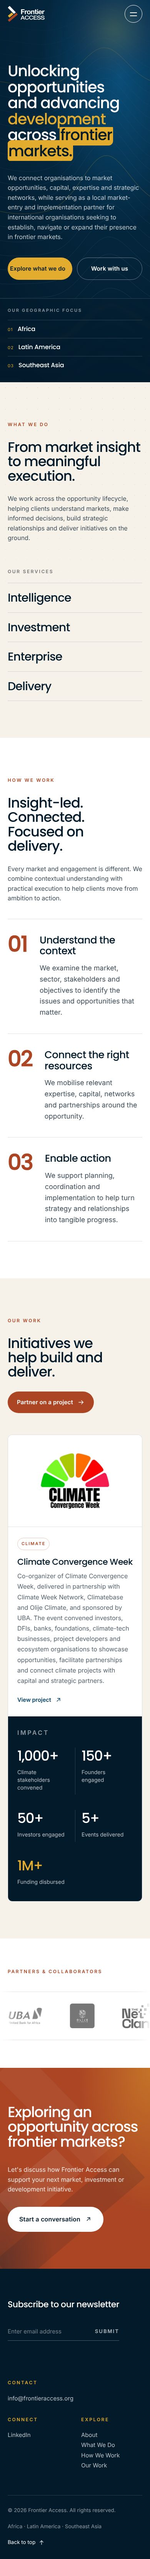
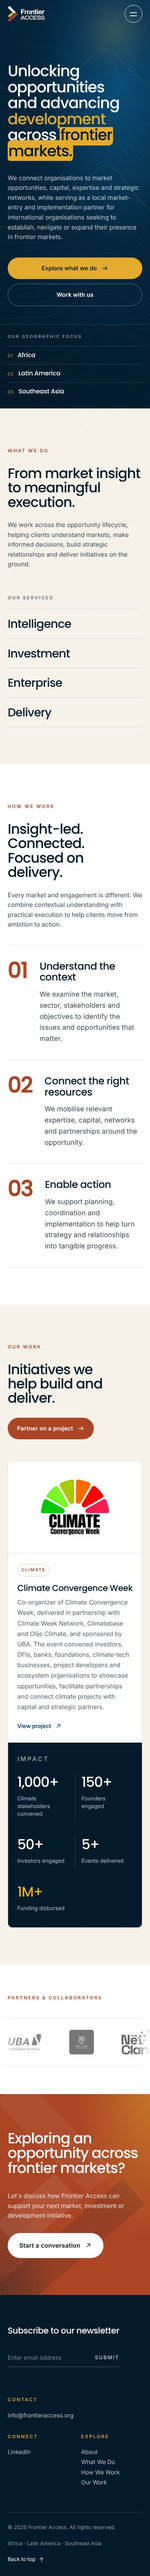
Site-wide audit fixes
- Phones: stack the hero buttons full width (text was cut off at 320-390px)
  and tighten the footer gap.
- Phone menu: Let's Talk now goes to Contact like the header button; remove
  the leftover "Lekki, Lagos" line; use inert instead of aria-hidden so the
  closed menu is skipped by keyboard and screen readers; menu button gets
  type="button".
- Content stays visible when JavaScript is off or not yet run: hiding for
  reveal animations only applies once the page script is running, and the
  Impact figures are written into the HTML (they count up from 0 only when
  animated).
- Partners label is now a heading (h2) for screen readers.
- Small grey labels darkened slightly for readable contrast on off-white.
- Link previews: absolute og:image plus og:title/description/url and a
  canonical URL for www.frontieraccess.org.
- Remove styles left over from removed sections; README points to the
  live domain.

Claude-Session: https://claude.ai/code/session_013iMuxdDqZ6bm7NfrpEJfTy

diff --git a/styles.css b/styles.css
@@ -72,18 +72,14 @@ button { font: inherit; cursor: pointer; }
   font-family: var(--f-body); font-size: 12px; font-weight: 600;
   letter-spacing: .22em; text-transform: uppercase; color: var(--rust);
 }
-.eyebrow-light { color: var(--gold); }
-.eyebrow-dot { width: 7px; height: 7px; border-radius: 50%; background: var(--gold); box-shadow: 0 0 0 0 rgba(227,172,46,.6); animation: pulse 2.4s infinite; }
-@keyframes pulse { 0% { box-shadow: 0 0 0 0 rgba(227,172,46,.55); } 70% { box-shadow: 0 0 0 12px rgba(227,172,46,0); } 100% { box-shadow: 0 0 0 0 rgba(227,172,46,0); } }
 
 .h2 {
   font-family: var(--f-head); font-weight: 500;
   font-size: clamp(36px, 5.2vw, 76px); line-height: 1.04; letter-spacing: -.03em;
   color: var(--navy-ink); margin-top: 28px; max-width: 14ch;
 }
-.h2-light { color: #fff; }
 .lead { font-size: clamp(16px, 1.4vw, 20px); line-height: 1.6; color: #3d4b57; max-width: 52ch; margin-top: 28px; }
-.list-label { font-size: 12px; font-weight: 600; letter-spacing: .22em; text-transform: uppercase; color: var(--grey); }
+.list-label { font-size: 12px; font-weight: 600; letter-spacing: .22em; text-transform: uppercase; color: #5F6670; }
 
 /* ---------- Buttons ---------- */
 .btn {
@@ -103,7 +99,6 @@ button { font: inherit; cursor: pointer; }
 .btn:hover::before { transform: none; }
 .btn svg { width: 18px; height: 18px; transition: transform .45s var(--ease); }
 .btn:hover svg { transform: translateX(4px); }
-.btn:hover svg[aria-hidden] use[href="#arrow-ne"] { }
 .btn-gold { --bg: var(--gold); --fg: var(--navy-ink); --hover-bg: #fff; }
 .btn-light { --bg: #fff; --fg: var(--navy-ink); --hover-bg: var(--navy-ink); }
 .btn-light:hover { color: #fff; }
@@ -210,9 +205,10 @@ body.menu-open .mobile-menu li:nth-child(5) a { transition-delay: .44s; }
   -webkit-box-decoration-break: clone; box-decoration-break: clone;
   transition: background-size 1s var(--ease) 1.25s, color .5s var(--ease) 1.45s;
 }
-.is-loaded .hero-hl { background-size: 100% 100%; color: var(--navy-ink); }
+html:not(.js) .hero-hl, .is-loaded .hero-hl { background-size: 100% 100%; color: var(--navy-ink); }
 .line { display: block; overflow: hidden; padding: 0 .08em .1em 0; margin-bottom: -.1em; }
-.line > span { display: inline-block; white-space: nowrap; transform: translateY(105%); transition: transform 1.2s var(--ease); }
+.line > span { display: inline-block; white-space: nowrap; }
+.js .line > span { transform: translateY(105%); transition: transform 1.2s var(--ease); }
 .is-loaded .hero-title .line > span { transform: none; }
 .is-loaded .hero-title .line:nth-child(1) > span { transition-delay: .25s; }
 .is-loaded .hero-title .line:nth-child(2) > span { transition-delay: .37s; }
@@ -222,7 +218,7 @@ body.menu-open .mobile-menu li:nth-child(5) a { transition-delay: .44s; }
 .hero-sub { max-width: 58ch; font-size: clamp(16px, 1.3vw, 19px); color: rgba(255,255,255,.76); }
 .hero-ctas { display: flex; gap: 12px; flex-wrap: wrap; }
 
-.hero-anim { opacity: 0; transform: translateY(24px); transition: opacity 1s var(--ease), transform 1s var(--ease); transition-delay: var(--d, 0s); }
+.js .hero-anim { opacity: 0; transform: translateY(24px); transition: opacity 1s var(--ease), transform 1s var(--ease); transition-delay: var(--d, 0s); }
 .is-loaded .hero-anim { opacity: 1; transform: none; }
 
 .geo-strip { position: relative; border-top: 1px solid var(--line-light); background: rgba(3, 26, 43, .35); backdrop-filter: blur(6px); -webkit-backdrop-filter: blur(6px); }
@@ -241,7 +237,7 @@ body.menu-open .mobile-menu li:nth-child(5) a { transition-delay: .44s; }
 .section { padding: var(--section-y) 0; position: relative; }
 
 /* Reveal */
-[data-reveal] { opacity: 0; transform: translateY(36px); transition: opacity 1s var(--ease), transform 1.1s var(--ease); transition-delay: var(--d, 0s); }
+.js [data-reveal] { opacity: 0; transform: translateY(36px); transition: opacity 1s var(--ease), transform 1.1s var(--ease); transition-delay: var(--d, 0s); }
 [data-reveal].in { opacity: 1; transform: none; }
 .split-word { display: inline-block; overflow: hidden; vertical-align: top; padding-bottom: .08em; margin-bottom: -.08em; }
 .split-word > span { display: inline-block; transform: translateY(110%); transition: transform 1s var(--ease); transition-delay: calc(var(--i) * 45ms); }
@@ -256,7 +252,7 @@ body.menu-open .mobile-menu li:nth-child(5) a { transition-delay: .44s; }
 }
 .clients .container { position: relative; }
 .clients-head .h2 { max-width: 17ch; }
-.clients .list-label { color: var(--grey); margin-top: clamp(64px, 8vw, 112px); }
+.clients .list-label { color: #5F6670; margin-top: clamp(64px, 8vw, 112px); }
 .client-list { margin-top: 20px; border-top: 1px solid var(--line); }
 .client-row {
   position: relative; border-bottom: 1px solid var(--line); overflow: hidden; isolation: isolate;
@@ -295,7 +291,7 @@ body.menu-open .mobile-menu li:nth-child(5) a { transition-delay: .44s; }
 .process-sticky { position: sticky; top: 120px; }
 .process-sticky .h2 { max-width: 12ch; }
 .process-meter { display: flex; align-items: center; gap: 20px; margin-top: 56px; max-width: 360px; }
-.meter-count { font-size: 13px; letter-spacing: .1em; color: var(--grey); white-space: nowrap; }
+.meter-count { font-size: 13px; letter-spacing: .1em; color: #5F6670; white-space: nowrap; }
 .meter-count b { color: var(--rust); font-weight: 600; }
 .meter-bar { position: relative; flex: 1; height: 2px; background: var(--line); overflow: hidden; }
 .meter-bar i { position: absolute; inset: 0; background: linear-gradient(90deg, var(--rust), var(--gold)); transform-origin: left; transform: scaleX(0); transition: transform .3s linear; }
@@ -351,7 +347,6 @@ body.menu-open .mobile-menu li:nth-child(5) a { transition-delay: .44s; }
 .project-media--logo::after { display: none; }
 .project-media::after { content: ""; position: absolute; inset: 0; background: linear-gradient(180deg, transparent 55%, rgba(3,26,43,.35)); opacity: 0; transition: opacity .6s; }
 .project:hover .project-media::after { opacity: 1; }
-.media-note { position: absolute; left: 14px; bottom: 12px; z-index: 1; font-size: 10.5px; letter-spacing: .16em; text-transform: uppercase; color: #fff; background: rgba(3,26,43,.55); padding: 6px 10px; border-radius: 999px; backdrop-filter: blur(4px); }
 .project-body { padding-top: 24px; display: flex; flex-direction: column; flex: 1; }
 .tag { align-self: flex-start; font-size: 11px; font-weight: 600; letter-spacing: .18em; text-transform: uppercase; color: var(--rust); padding: 6px 10px; border: 1px solid rgba(171,69,36,.3); border-radius: 999px; }
 .project h3 { font-family: var(--f-head); font-weight: 500; font-size: clamp(22px, 2vw, 28px); letter-spacing: -.02em; line-height: 1.2; margin: 18px 0 10px; color: var(--navy-ink); }
@@ -448,7 +443,7 @@ body.menu-open .mobile-menu li:nth-child(5) a { transition-delay: .44s; }
   .project--feature .project-body { padding: 28px 24px 32px; }
   .project--feature p { font-size: 16px; }
   .cta-inner { grid-template-columns: 1fr; }
-  .footer-top { grid-template-columns: 1fr; }
+  .footer-top { grid-template-columns: 1fr; gap: 40px; }
   .client-detail-inner { grid-template-columns: 1fr; gap: 12px; }
 }
 
@@ -461,7 +456,8 @@ body.menu-open .mobile-menu li:nth-child(5) a { transition-delay: .44s; }
   .footer-cols > div:first-child { grid-column: span 2; }
   .logo-desc { display: none; }
   .logo-full { height: 42px; width: calc(42px * 1288 / 563); }
-  .hero-ctas .btn { flex: 1; justify-content: center; }
+  .hero-ctas { width: 100%; }
+  .hero-ctas .btn { flex: 1 1 100%; justify-content: center; }
   .line > span { white-space: normal; }
   .hero-hl { display: inline; padding: 0 .06em; margin: 0 -.02em; }
   .stat { padding: 4px 16px 8px; }
@@ -474,8 +470,8 @@ body.menu-open .mobile-menu li:nth-child(5) a { transition-delay: .44s; }
 @media (prefers-reduced-motion: reduce) {
   html { scroll-behavior: auto; }
   *, *::before, *::after { animation-duration: .001ms !important; animation-iteration-count: 1 !important; transition-duration: .001ms !important; transition-delay: 0s !important; }
-  [data-reveal], .hero-anim { opacity: 1; transform: none; }
-  .line > span, .split-word > span { transform: none; }
+  .js [data-reveal], .js .hero-anim { opacity: 1; transform: none; }
+  .js .line > span, .split-word > span { transform: none; }
   .marquee-track { animation: none; flex-wrap: wrap; width: auto; }
   .marquee-group:nth-child(2) { display: none; }
     .client-detail-inner { opacity: 1; transform: none; }

diff --git a/index.html b/index.html
@@ -9,11 +9,19 @@
   <link rel="icon" type="image/svg+xml" href="assets/logo/frontier-access-mark.svg" />
   <link rel="icon" type="image/png" sizes="64x64" href="assets/logo/favicon-64.png" />
   <link rel="apple-touch-icon" href="assets/logo/apple-touch-icon.png" />
-  <meta property="og:image" content="assets/logo/frontier-access-logo.png" />
+  <link rel="canonical" href="https://www.frontieraccess.org/" />
+  <meta property="og:type" content="website" />
+  <meta property="og:site_name" content="Frontier Access" />
+  <meta property="og:title" content="Frontier Access — Your partner across frontier markets" />
+  <meta property="og:description" content="Frontier Access is an frontier-markets advisory and development firm connecting investors, businesses, institutions and development partners to the intelligence, capital, expertise and networks needed to grow across Africa, Latin America and Southeast Asia." />
+  <meta property="og:url" content="https://www.frontieraccess.org/" />
+  <meta property="og:image" content="https://www.frontieraccess.org/assets/logo/frontier-access-logo.png" />
+  <meta name="twitter:card" content="summary" />
   <link rel="preconnect" href="https://fonts.googleapis.com" />
   <link rel="preconnect" href="https://fonts.gstatic.com" crossorigin />
   <link href="https://fonts.googleapis.com/css2?family=Inter:wght@300;400;500;600&family=Poppins:wght@400;500;600;700&display=swap" rel="stylesheet" />
   <link rel="stylesheet" href="styles.css" />
+  <script>document.documentElement.classList.add('js');</script>
 </head>
 <body>
   <a class="skip-link" href="#main">Skip to content</a>
@@ -56,14 +64,14 @@
 
       <a href="#contact" class="btn btn-nav"><span>Let's Talk</span><svg aria-hidden="true"><use href="#arrow" /></svg></a>
 
-      <button class="menu-toggle" aria-expanded="false" aria-controls="mobile-menu" aria-label="Open menu" data-menu-toggle>
+      <button type="button" class="menu-toggle" aria-expanded="false" aria-controls="mobile-menu" aria-label="Open menu" data-menu-toggle>
         <span></span><span></span>
       </button>
     </div>
   </header>
 
   <!-- Mobile menu -->
-  <div class="mobile-menu" id="mobile-menu" data-mobile-menu aria-hidden="true">
+  <div class="mobile-menu" id="mobile-menu" data-mobile-menu inert>
     <nav aria-label="Mobile">
       <ul>
         <li><a href="#top">About</a></li>
@@ -72,8 +80,8 @@
       </ul>
     </nav>
     <div class="mobile-menu-foot">
-      <a href="mailto:info@frontieraccess.org" class="btn btn-gold"><span>Let's Talk</span><svg aria-hidden="true"><use href="#arrow-ne" /></svg></a>
-      <p>info@frontieraccess.org<br />Lekki, Lagos</p>
+      <a href="#contact" class="btn btn-gold"><span>Let's Talk</span><svg aria-hidden="true"><use href="#arrow" /></svg></a>
+      <p>info@frontieraccess.org</p>
     </div>
   </div>
 
@@ -84,7 +92,7 @@
       <div class="hero-glow" aria-hidden="true"></div>
 
       <div class="container hero-content">
-        <h1 class="hero-title" data-split-lines>
+        <h1 class="hero-title">
           <span class="line"><span>Unlocking opportunities</span></span>
           <span class="line"><span>and advancing <em>development</em></span></span>
           <span class="line"><span>across <mark class="hero-hl">frontier markets.</mark></span></span>
@@ -247,11 +255,11 @@
             <div class="project-stats">
               <p class="list-label">Impact</p>
               <dl class="stats">
-                <div class="stat" data-reveal><dt><span data-count="1000">0</span>+</dt><dd>Climate stakeholders convened</dd></div>
-                <div class="stat" data-reveal style="--d:.06s"><dt><span data-count="150">0</span>+</dt><dd>Founders engaged</dd></div>
-                <div class="stat" data-reveal style="--d:.12s"><dt><span data-count="50">0</span>+</dt><dd>Investors engaged</dd></div>
-                <div class="stat" data-reveal style="--d:.18s"><dt><span data-count="5">0</span>+</dt><dd>Events delivered</dd></div>
-                <div class="stat stat-accent" data-reveal style="--d:.24s"><dt><span data-count="1">0</span>M+</dt><dd>Funding disbursed</dd></div>
+                <div class="stat" data-reveal><dt><span data-count="1000">1,000</span>+</dt><dd>Climate stakeholders convened</dd></div>
+                <div class="stat" data-reveal style="--d:.06s"><dt><span data-count="150">150</span>+</dt><dd>Founders engaged</dd></div>
+                <div class="stat" data-reveal style="--d:.12s"><dt><span data-count="50">50</span>+</dt><dd>Investors engaged</dd></div>
+                <div class="stat" data-reveal style="--d:.18s"><dt><span data-count="5">5</span>+</dt><dd>Events delivered</dd></div>
+                <div class="stat stat-accent" data-reveal style="--d:.24s"><dt><span data-count="1">1</span>M+</dt><dd>Funding disbursed</dd></div>
               </dl>
             </div>
           </article>
@@ -262,7 +270,7 @@
     <!-- ============ PARTNERS ============ -->
     <section class="partners" aria-labelledby="partners-title">
       <div class="container partners-head">
-        <p class="eyebrow" id="partners-title" data-reveal>Partners &amp; collaborators</p>
+        <h2 class="eyebrow" id="partners-title" data-reveal>Partners &amp; collaborators</h2>
       </div>
       <div class="marquee" data-marquee>
         <div class="marquee-track">

diff --git a/main.js b/main.js
@@ -40,6 +40,8 @@
 
   /* ---------- Counters ---------- */
   const counters = document.querySelectorAll('[data-count]');
+  // The real figures are in the HTML (for search engines and no-JS); start from 0 only when animating.
+  if (!reduceMotion && 'IntersectionObserver' in window) counters.forEach(el => (el.textContent = '0'));
   const fmt = n => n.toLocaleString('en-US');
   const runCounter = el => {
     const target = +el.dataset.count;
@@ -119,7 +121,7 @@
     body.classList.toggle('menu-open', open);
     toggle.setAttribute('aria-expanded', String(open));
     toggle.setAttribute('aria-label', open ? 'Close menu' : 'Open menu');
-    menu.setAttribute('aria-hidden', String(!open));
+    menu.inert = !open;
   };
   toggle.addEventListener('click', () => setMenu(!body.classList.contains('menu-open')));
   menu.querySelectorAll('a').forEach(a => a.addEventListener('click', () => setMenu(false)));

diff --git a/README.md b/README.md
@@ -2,7 +2,7 @@
 
 One-page website for **Frontier Access** (frontieraccess.org), a frontier-markets advisory and development firm working across Africa, Latin America and Southeast Asia.
 
-**Live preview:** https://chukwuvidera.github.io/Frontier-Access-website/
+**Live site:** https://www.frontieraccess.org (hosted on Vercel; deploys from the `main` branch)
 
 ## Files
 
